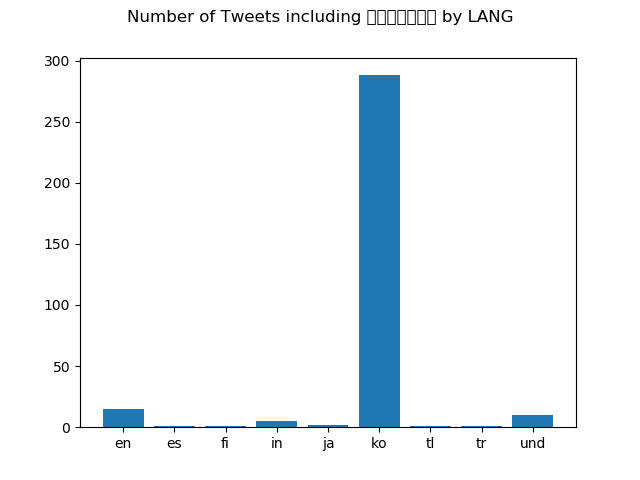
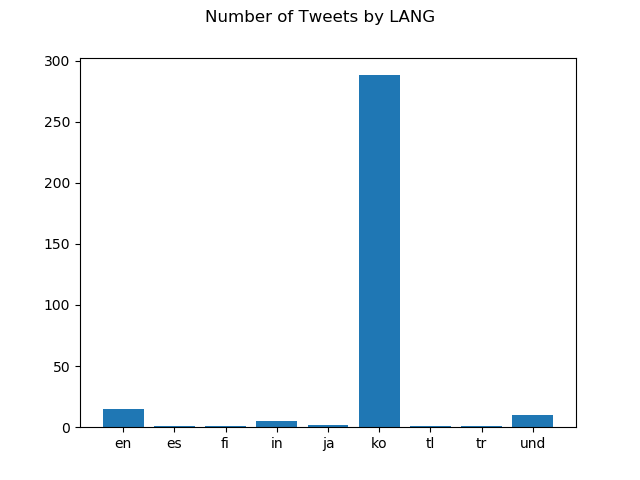
fixed korean charts

Changed region(s): [[0.1875, 0.0, 0.8125, 0.0625]]

diff --git a/src/visualize.py b/src/visualize.py
@@ -41,10 +41,11 @@ for i in top_10:
 sorted_data = sorted(zip(num_tweets, top_10))
 num_tweets, top_10 = zip(*sorted_data)
 
+
 x = args.input_path.split('.')[1].upper()
 key = args.key.split('#')[1]
 plt.bar(top_10, num_tweets)
-plt.suptitle(f'Number of Tweets including {key} by {x}')
+plt.suptitle(f'Number of Tweets by {x}')
 plt.savefig(f'{key}_tweets_by_{x.lower()}.png')
 
 
